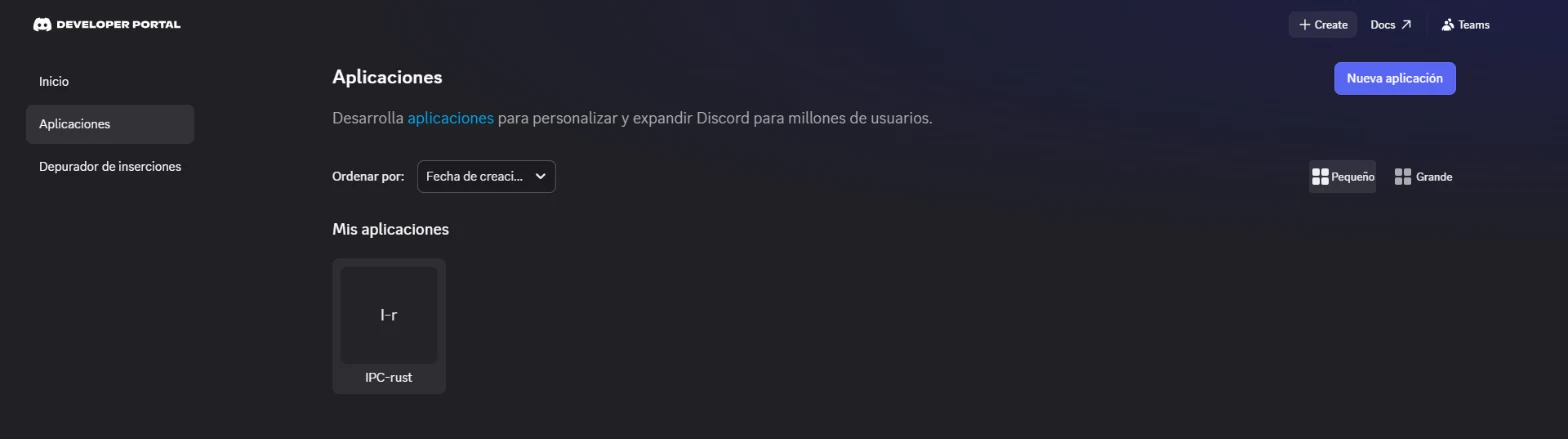
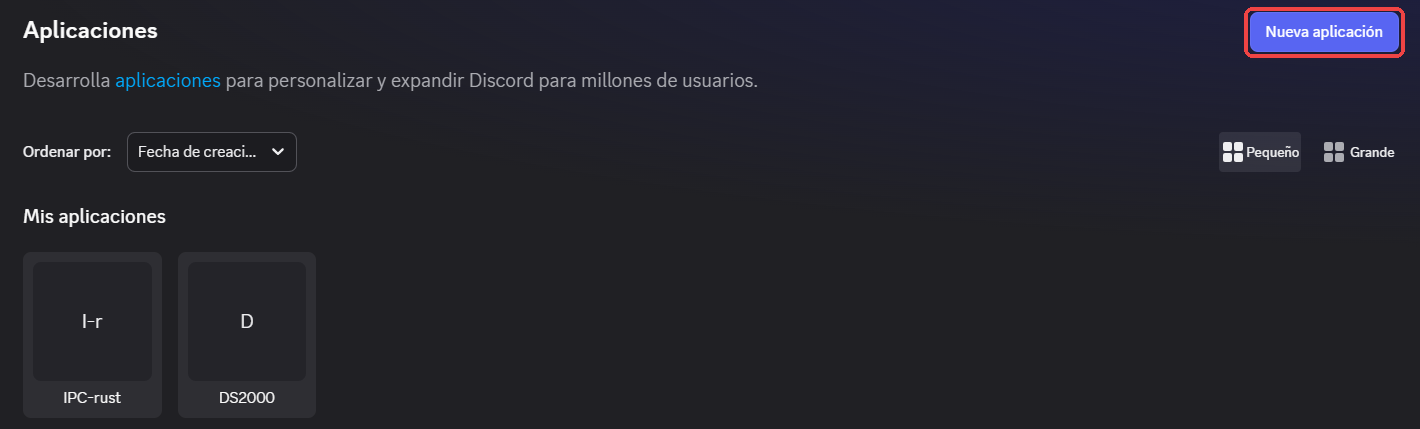
DS2000: English guide captures, click marks, and an in-page screenshot viewer (#119)
- English captures of the Discord developer portal steps 01, 02, 03 and 05,
  as <figure>.en.webp next to the Spanish ones.
- Every portal capture marks in red what to click. Step 01 is retaken at the
  screen's native resolution and cropped to the content, so it is sharp.
- A click on a guide screenshot opens it full size in a <dialog> on the same
  page, with a close button, instead of the bare image in a new tab.
- A thumbnail is never wider than its capture, so a small one (the Create
  dialog) is no longer stretched blurry across the column.

diff --git a/static/js/figure-viewer.js b/static/js/figure-viewer.js
@@ -1,0 +1,38 @@
+/**
+ * DS2000 guide screenshots: a click on one opens it full size in a native
+ * <dialog> on the same page (focus, Escape and the backdrop come for free),
+ * instead of following the link to the bare image. A modified click (new tab,
+ * new window) still follows the link. Without JS, or without <dialog>, the
+ * link opens the image in the same tab.
+ */
+document.addEventListener('DOMContentLoaded', () => {
+    const viewer = document.getElementById('figure-viewer');
+    if (!viewer || typeof viewer.showModal !== 'function') return;
+    const image = viewer.querySelector('[data-viewer-image]');
+    const closeButton = viewer.querySelector('[data-viewer-close]');
+    if (!image) return;
+
+    let opener = null;
+
+    document.querySelectorAll('[data-figure-viewer]').forEach((link) => {
+        link.addEventListener('click', (event) => {
+            if (event.button !== 0 || event.metaKey || event.ctrlKey || event.shiftKey || event.altKey) return;
+            event.preventDefault();
+            const thumbnail = link.querySelector('img');
+            image.src = link.href;
+            image.alt = thumbnail ? thumbnail.alt : '';
+            opener = link;
+            viewer.showModal();
+        });
+    });
+
+    if (closeButton) closeButton.addEventListener('click', () => viewer.close());
+    // A click on the backdrop lands on the dialog element itself.
+    viewer.addEventListener('click', (event) => {
+        if (event.target === viewer) viewer.close();
+    });
+    viewer.addEventListener('close', () => {
+        image.removeAttribute('src');
+        if (opener) opener.focus();
+    });
+});

diff --git a/templates/macros/ds2000.html b/templates/macros/ds2000.html
@@ -28,13 +28,17 @@
 </div>
 {% endmacro header %}
 
-{# A screenshot, or a placeholder naming the file it waits for. #}
+{# A screenshot, or a placeholder naming the file it waits for. A click on
+   the screenshot opens it full size in the page's viewer (figure-viewer.js);
+   without JS the link opens the image itself, in the same tab. #}
 {% macro figure(figures, name, alt, t) %}
 {% if name in figures %}
 {% set fig = figures[name] %}
 <figure class="flex flex-col gap-2">
-    <a href="{{ fig.src }}" target="_blank" rel="noopener" class="block border border-line-strong bg-panel p-1.5 transition-colors hover:border-lime">
-        <img src="{{ fig.src }}" alt="{{ alt }}" width="{{ fig.width }}" height="{{ fig.height }}" loading="lazy" decoding="async" class="h-auto w-full">
+    {# Never wider than the screenshot itself: a small capture (a dialog)
+       stretched to the column turns blurry. #}
+    <a href="{{ fig.src }}" data-figure-viewer class="block max-w-full self-start border border-line-strong bg-panel p-1.5 transition-colors hover:border-lime">
+        <img src="{{ fig.src }}" alt="{{ alt }}" width="{{ fig.width }}" height="{{ fig.height }}" loading="lazy" decoding="async" class="h-auto w-auto max-w-full">
     </a>
     <figcaption class="caption">{{ t.labels.figure }} — {{ alt }}</figcaption>
 </figure>

diff --git a/templates/ds2000/guide_base.html b/templates/ds2000/guide_base.html
@@ -11,6 +11,23 @@
     {{ guide::header(heading=page.heading, intro=page.intro) }}
 </section>
 {% block guide %}{% endblock guide %}
+
+{# The guide screenshots open here, full size, over the page. #}
+<dialog id="figure-viewer" class="m-auto max-h-[96vh] max-w-[96vw] bg-transparent p-0 backdrop:bg-ink/90"
+    aria-label="{{ t.ds2000_guide.viewer.label }}">
+    <div class="flex flex-col border border-line-strong bg-panel">
+        <div class="flex justify-end border-b border-line-strong">
+            <button type="button" data-viewer-close aria-label="{{ t.ds2000_guide.viewer.close }}"
+                class="flex h-11 w-11 items-center justify-center text-fg hover:text-lime">
+                <svg class="h-5 w-5" viewBox="0 0 24 24" fill="none" stroke="currentColor" stroke-width="2" stroke-linecap="square" aria-hidden="true">
+                    <path d="M6 6l12 12M18 6L6 18" />
+                </svg>
+            </button>
+        </div>
+        <img data-viewer-image src="" alt="" class="block h-auto max-h-[calc(96vh-3rem)] w-auto max-w-full object-contain">
+    </div>
+</dialog>
+<script src="/static/js/figure-viewer.js" defer></script>
 {% endblock content %}
 
 {% block footer_extra %}{{ guide::legal_links(lang=lang, t=t) }}{% endblock footer_extra %}

diff --git a/CLAUDE.md b/CLAUDE.md
@@ -161,7 +161,8 @@ no download button
 - Blog post bodies render inside `.prose-dark`, whose rules are unlayered on purpose: they override the
   old utility classes inside the post fragments. New posts only need plain `h2`/`h3`/`p`/`ul`/`pre`
 - `static/js/post.js` builds the post's table of contents from its `h2`s, the reading progress bar and
-  the code block copy buttons; `menu.js` drives the phone menu; `gallery.js` the DS2000 gallery
+  the code block copy buttons; `menu.js` drives the phone menu; `gallery.js` the DS2000 gallery;
+  `figure-viewer.js` opens the DS2000 guide screenshots full size in a `<dialog>`
 
 ### Images
 - Ship WebP; keep the source file out of `static/`
